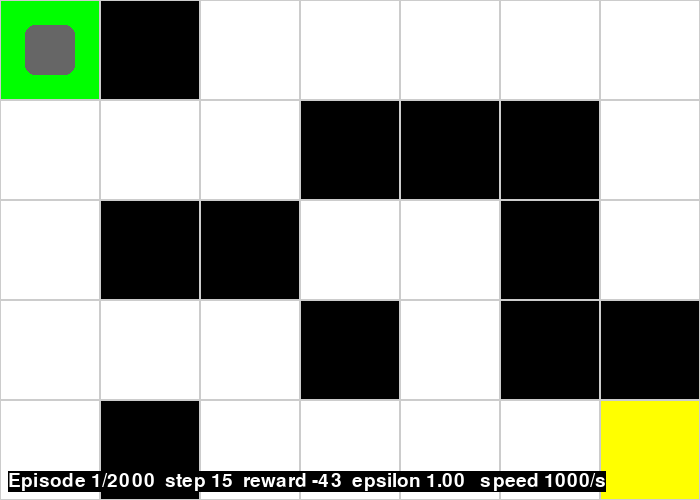
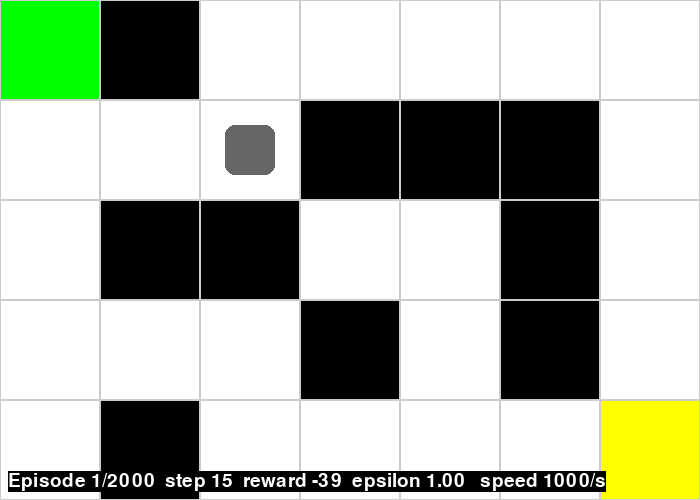
feat: add a second route to the maze

diff --git a/index.py b/index.py
@@ -12,7 +12,7 @@ maze = np.array([
     ['S', '#', '.', '.', '.', '.', '.'],
     ['.', '.', '.', '#', '#', '#', '.'],
     ['.', '#', '#', '.', '.', '#', '.'],
-    ['.', '.', '.', '#', '.', '#', '#'],
+    ['.', '.', '.', '#', '.', '#', '.'],
     ['.', '#', '.', '.', '.', '.', 'C']
 ])
 

diff --git a/README.md b/README.md
@@ -9,11 +9,11 @@ A small, visual reinforcement-learning project. A mouse starts with zero knowled
  S # . . . . .        S = start     C = cheese
  . . . # # # .        # = wall      . = open cell
  . # # . . # .
- . . . # . # #        Learned path (10 steps, the optimal one):
- . # . . . . C        (0,0) ↓ ↓ ↓ ↓ (3,0) → → (3,2) ↓ (4,2) → → → → (4,6)
+ . . . # . # .        Learned path (10 steps, the optimal one):
+ . # . . . . C        (0,0) ↓ ↓ ↓ (3,0) → → (3,2) ↓ (4,2) → → → → (4,6)
 ```
 
-The maze has a trap on purpose: the top-right route looks promising but ends in a dead end at `(2,6)`, so the mouse has to discover that going down and around is the only way.
+The maze has two routes on purpose: a short one along the bottom (10 steps) and a long one across the top and down the right side (12 steps). The mouse has to discover that the bottom route is shorter. The open pocket in the middle is a dead end that only wastes moves.
 
 ---
 
@@ -53,8 +53,8 @@ Options:
 The window shows the mouse moving one cell at a time, with a status bar: episode number, step, total reward so far and epsilon. The terminal prints one summary line per episode:
 
 ```
-Episode 1: timeout in 200 steps, reward -636, epsilon 0.995
-Episode 300: cheese in 14 steps, reward 87, epsilon 0.231
+Episode 1: cheese in 112 steps, reward -243, epsilon 0.995
+Episode 300: cheese in 10 steps, reward 91, epsilon 0.231
 Episode 2000: cheese in 10 steps, reward 91, epsilon 0.010
 ```
 
@@ -134,9 +134,9 @@ All at the top of `index.py`. Try changing them and watching the episode log:
 | `discount_factor` (γ) | `0.95` | Closer to 1 makes the mouse value the distant cheese more. Too low and the +100 fades before it reaches the start. |
 | `epsilon_decay_rate` | `0.005` | Higher stops exploring sooner. Too high and it may lock in a bad path; too low wastes episodes. |
 | `min_epsilon` | `0.01` | Exploration floor. |
-| `num_episodes` | `2000` | Plenty for this maze; it converges in roughly 500. |
+| `num_episodes` | `2000` | Plenty for this maze; it settles on the 10-step path in roughly 600. |
 | `max_steps` | `200` | Cut-off that ends an episode in which the mouse wanders too long. |
-| `REWARD_*` | `100 / -1 / -5` | Reshaping rewards changes behavior. Try `REWARD_STEP = 0` and watch the paths get lazier. |
+| `REWARD_*` | `100 / -1 / -5` | Reshaping rewards changes behavior. Try `REWARD_STEP = 0`: with no cost per move, some runs settle on the 12-step top route instead of the 10-step one. |
 
 You can also edit the `maze` array to design your own, as long as `S` and `C` are connected.
 
